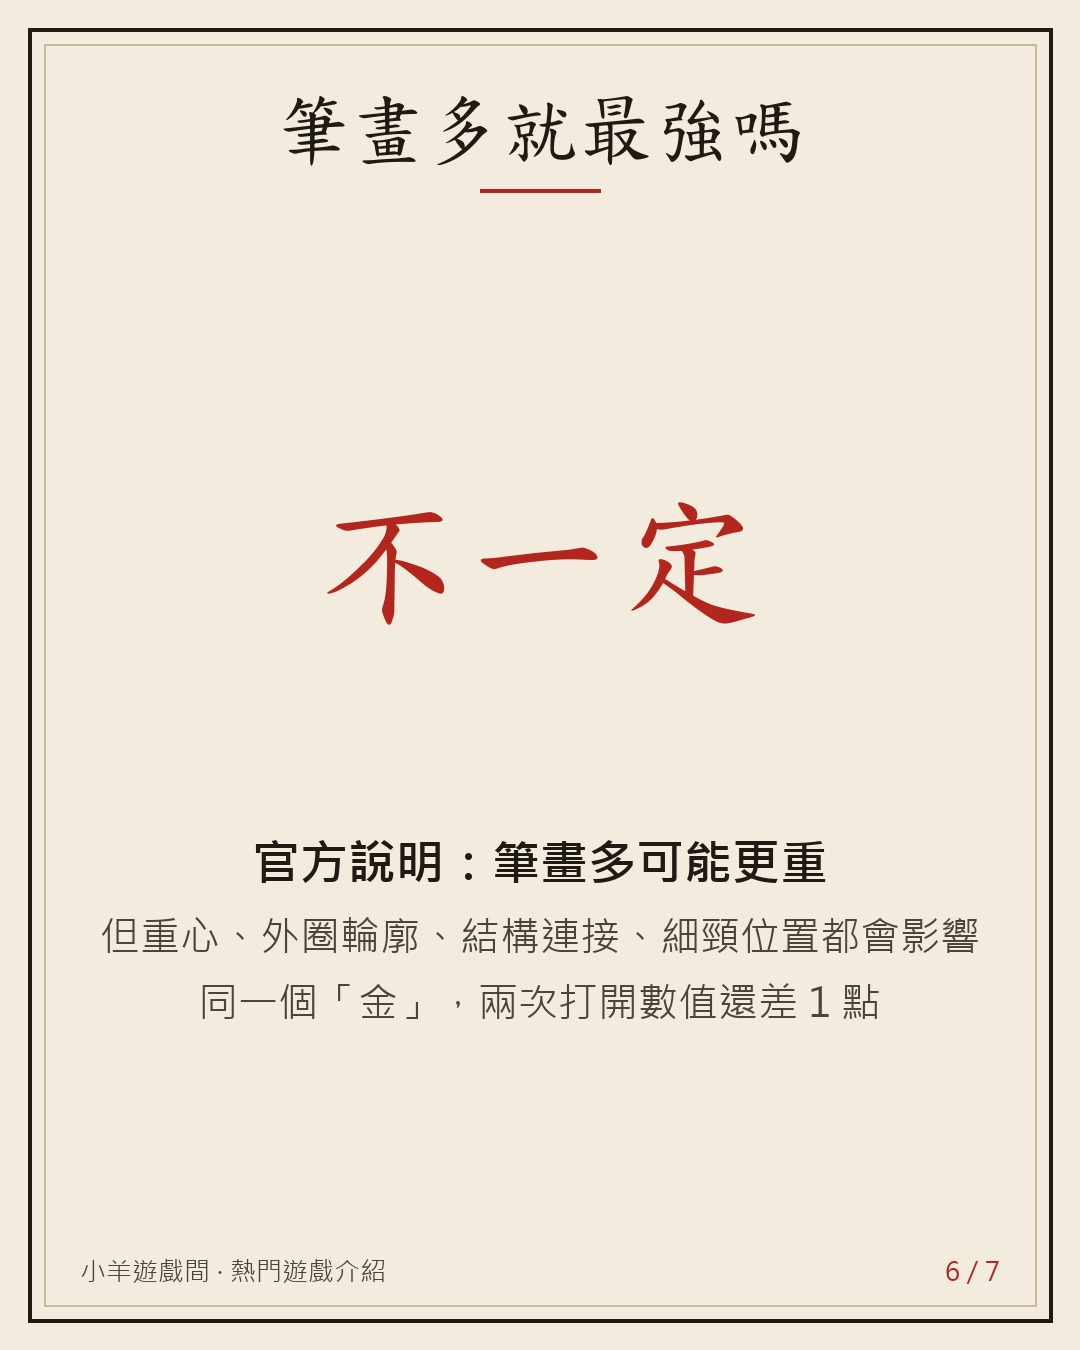
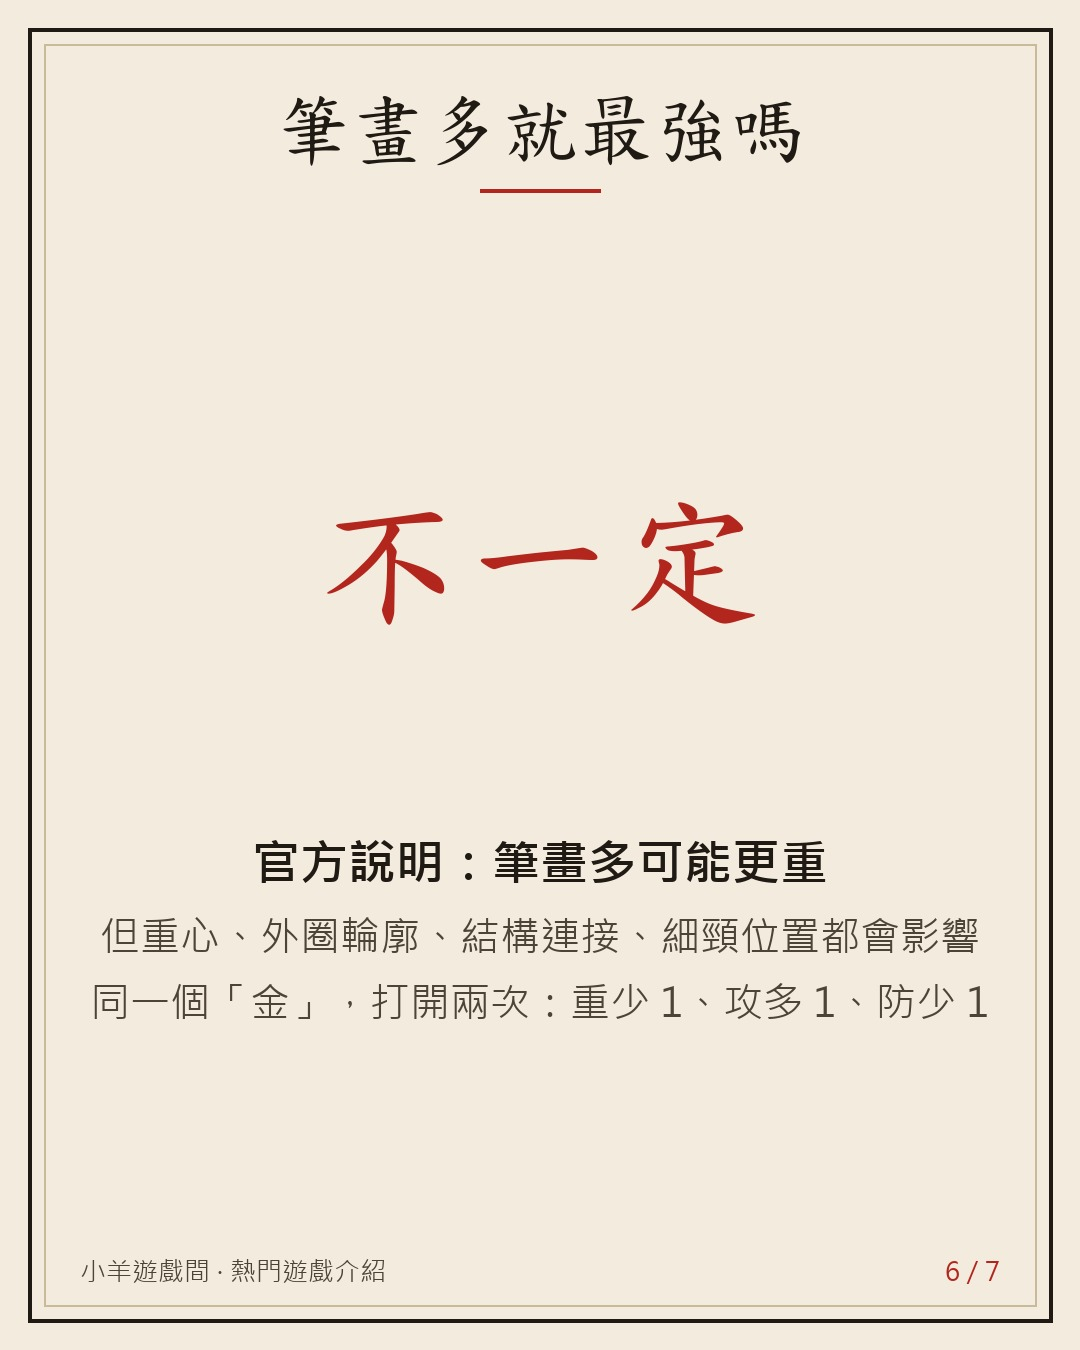
vault backup: 2026-11-24 09:39:36

Changed region(s): [[0.3361, 0.7156, 0.8861, 0.7778], [0.1528, 0.7156, 0.3056, 0.7778], [0.0917, 0.7156, 0.1222, 0.7467]]

diff --git a/Projects/auto promotion/posts/89.md b/Projects/auto promotion/posts/89.md
@@ -5,49 +5,50 @@ game: 姓名戰鬥陀螺（lpm1.live；《文字遊戲》製作人張文韋用 C
 topic: "姓名戰鬥陀螺：輸入三字姓名、每字化為陀螺、三回合先得兩勝；薪鹽 Threads 貼文一天破 19 萬瀏覽，作者是《文字遊戲》製作人張文韋（NOWnews 2026-09-30、4Gamers）；實測只看到陀螺數值，沒等到對戰結果"
 status: 待發
 created: 2026-11-25 00:10
-score: 8.1
+score: 8.2
 ---
 # 【介紹】網頁遊戲《姓名戰鬥陀螺》：把名字變成陀螺開打，三字三戰先得兩勝
 
 ## Threads
 ### 1
 一日十九萬次看，
-名字入場化陀螺。
+三字化螺各上場。
 
 【介紹】《姓名戰鬥陀螺》
 話說江湖上有一門奇功：輸入三個字的名字，每個字化為一顆陀螺，三回合各派一字，先得兩勝者為最強姓名。
-漫畫家薪鹽在 Threads 說男友用 AI 做的，一天瀏覽破 19 萬次；後來揭曉那位男友是《文字遊戲》製作人張文韋。
+據 NOWnews，漫畫家薪鹽在 Threads 說男友用 AI 做的，一天瀏覽破 19 萬次；後來揭曉那位男友，是《文字遊戲》製作人張文韋。
 圖片來源：姓名戰鬥陀螺 官方網站
 ![[89/01.jpg]]
 ### 2
 且說在下親自查看陀螺底細：
 每個字都有重、穩、攻、防四項數值。
-「金」第一次打開是重 44、穩 95、攻 63、防 50，第二次變重 43、攻 64、防 49（穩仍 95），同一個字數值會微調，江湖笑之。
-「天」攻 80、防 35，攻最高、防最低，擅攻不擅守，深藏不露。
+「金」第一次打開是重 44、穩 95、攻 63、防 50；第二次重少 1、攻多 1、防少 1。同一個字打開兩次不一樣，不知算進步還是退步 XD
+「天」（第一次打開）攻 80、防 35，在畫面上六個字裡攻最高、防最低，擅攻不擅守。
 官方說明：筆畫多可能更重，但重心、外圈輪廓、細頸位置都會影響，字多不等於贏。
-在下按下開戰，陀螺轉了好一陣子，沒等到勝負，今日不敢報戰果，請閣下親自去打完 XD
+在下按下開戰，等了一分多鐘，戰局還停在第 1 回合（「金」對「藍」），勝負不敢報。閣下的名字能撐到第幾回？
 圖片來源：姓名戰鬥陀螺 官方網站
 ![[89/02.jpg]]
 ### 3
 此功手機點開即可練，免費、不用登入。
 小羊的筆記：做小遊戲可以學這招，輸入用玩家本來就有的東西（名字），零教學就會玩，結果還能截圖給朋友看。
-考考閣下：你名字三個字，哪個最強？留言告訴在下。追蹤小羊，有新的點了就玩的小遊戲再來介紹。
+考考閣下：你名字三個字，哪個最強？留言告訴在下。追蹤小羊，每回挑一款點了就玩的網頁遊戲來講。
 ![[89/07.jpg]]
 ### 連結
 《姓名戰鬥陀螺》https://lpm1.live/ （網頁點開即可玩）。想再找一門點了就玩的奇功，都在小羊遊戲間 👉 https://games.csiesheep.com/
 
 ## Instagram
-一日十九萬次看，名字入場化陀螺。
+一日十九萬次看，三字化螺各上場。
 
 【介紹】《姓名戰鬥陀螺》
 話說江湖上有一門奇功：輸入三個字的名字，每個字化為一顆陀螺，三回合各派一字，先得兩勝者為最強姓名。
 
-漫畫家薪鹽在 Threads 說男友用 AI 做的，一天瀏覽破 19 萬次，後來揭曉作者是《文字遊戲》製作人張文韋（NOWnews，9/30）。每個字有重、穩、攻、防四項數值，官方說明筆畫多不一定強，重心、輪廓、細頸位置都有影響。
+據 NOWnews，漫畫家薪鹽在 Threads 說男友用 AI 做的，一天瀏覽破 19 萬次，後來揭曉作者是《文字遊戲》製作人張文韋（NOWnews 9/30 報導）。每個字有重、穩、攻、防四項數值，官方說明筆畫多不一定強，重心、輪廓、細頸位置都有影響。
 
-在下實測：同一個「金」，打開兩次數值差一點點（重 44→43、攻 63→64）；「天」攻 80、防 35。按下開戰後陀螺轉了好一陣子，沒等到勝負，戰果請閣下親自去打。
+在下實測：同一個「金」，打開兩次，重少 1、攻多 1、防少 1；「天」（第一次打開）攻 80、防 35。按下開戰後等了一分多鐘，戰局還停在第 1 回合，勝負不敢報，請閣下親自去打。
 
 網頁免費、不用登入。考考閣下：你名字三個字，哪個最強？留言告訴在下。
 小羊的筆記：做小遊戲可以學這招，輸入用玩家本來就有的東西（名字），零教學就會玩。
+追蹤小羊，每回挑一款點了就玩的網頁遊戲來講。
 
 圖：姓名戰鬥陀螺 官方網站畫面
 
@@ -58,19 +59,18 @@ score: 8.1
 
 ## Facebook
 一日十九萬次看，
-名字入場化陀螺。
+三字化螺各上場。
 
 【介紹】《姓名戰鬥陀螺》
 話說江湖上有一門奇功：輸入三個字的名字，每個字化為一顆陀螺，三回合各派一字，先得兩勝者為最強姓名；也可以一字對一字單挑。
 
-📜 緣起：漫畫家薪鹽在 Threads 說男友用 AI 做了「用名字打架的戰鬥陀螺」，一天瀏覽破 19 萬次。後來揭曉那位男友是台灣獨立團隊 Team9 總製作人張文韋，也是《文字遊戲》的製作人；《文字遊戲》獲日本遊戲大賞 2026 遊戲設計師大獎（NOWnews，9/30）。
+📜 緣起：據 NOWnews，漫畫家薪鹽在 Threads 說男友用 AI 做了「用名字打架的戰鬥陀螺」，一天瀏覽破 19 萬次。後來揭曉那位男友是台灣獨立團隊 Team9 總製作人張文韋，也是《文字遊戲》的製作人；《文字遊戲》獲日本遊戲大賞 2026 遊戲設計師大獎（NOWnews，9/30）。
 🛠 工具：據 NOWnews，原始公開版本是用 Claude 做的，免費、不用登入。
 🌀 玩法：每個字依字形切成節點，碰撞時會偏重、旋轉、斷裂，每個字有重、穩、攻、防四項數值。官方說明：筆畫多可能更重，但重心、外圈輪廓、結構連接、細頸位置都會影響表現。
-🔎 在下實測：同一個「金」，打開兩次，數值差一點點（重 44→43、攻 63→64）；「天」攻 80、防 35，攻擊高、防守低。
+🔎 在下實測：同一個「金」，打開兩次，重少 1、攻多 1、防少 1；「天」（第一次打開）攻 80、防 35，攻擊高、防守低。按下開戰後等了一分多鐘，戰局還停在第 1 回合（「金」對「藍」），勝負不敢報，請閣下親自去打。
 
 網頁免費、不用登入、不用下載。考考閣下：你名字三個字，哪個最強？留言告訴在下。
-小羊的筆記：做小遊戲可以學這招，輸入用玩家本來就有的東西（名字），零教學就會玩，結果還能截圖給朋友看。
-在下按下開戰，陀螺轉了好一陣子，沒等到勝負，戰果請閣下親自去打。
+小羊的筆記：做小遊戲可以學這招，輸入用玩家本來就有的東西（名字），零教學就會玩，結果還能截圖給朋友看。追蹤小羊，每回挑一款點了就玩的網頁遊戲來講。
 《姓名戰鬥陀螺》https://lpm1.live/
 更多點了就玩的網頁小遊戲，都在小羊遊戲間 👉 https://games.csiesheep.com/
 圖片來源：姓名戰鬥陀螺 官方網站
@@ -79,9 +79,18 @@ score: 8.1
 ## Sources
 - https://www.nownews.com/news/6879106 — 薪鹽貼文一天破 19 萬瀏覽、作者張文韋（Team9 總製作人、《文字遊戲》製作人）、用 Claude、免費免登入、兩種模式、《文字遊戲》獲日本遊戲大賞 2026 遊戲設計師大獎（2026-09-30）
 - https://www.4gamers.com.tw/news/detail/80099/word-game-name-battle-spinning-top-funny-beyblade — 標題：Threads 熱議、《文字遊戲》開發者以 AI 打造（內文只取到標題）
-- https://www.threads.com/@shinyan_dungeon/post/DZo2HOkiREk — 薪鹽原貼文標題「男友用AI做了一個用名字打架的戰鬥陀螺遊戲」（搜尋摘要，未開啟）
+- https://www.threads.com/@shinyan_dungeon/post/DZo2HOkiREk — 薪鹽原貼文標題「男友用AI做了一個用名字打架的戰鬥陀螺遊戲」（搜尋摘要，未開啟；文中一律標「據 NOWnews」）
+- 卡片 2 的「神」「杖」與「金」同在官方畫面第二次開啟的截圖，數值取自該截圖
 - https://lpm1.live/ — 玩法、四項數值、官方說明（筆畫多不一定強）、og-cover.png 與畫面截圖（官方網站，2026-11-25 截圖）。網站本身沒有作者署名，作者以 NOWnews 為準
-- 實測：2026-11-25 開啟網站兩次，讀到「金」數值兩組（44/95/63/50 與 43/95/64/49），「天」攻 80 防 35（第一次開啟）；按下開戰後對戰跑得很慢，沒有等到結果，所以文中不寫勝負
+- 第一次開啟畫面六字數值：金 重44穩95攻63防50、神 重48穩86攻62防50、杖 重47穩95攻51防61、藍 重57穩93攻50防61、天 重34穩73攻80防35、馬 重45穩78攻68防46（網站頁面文字）；NOWnews 稱 Team9 為「台灣獨立團隊」
+- 實測：2026-11-25 開啟網站兩次，讀到「金」數值兩組（44/95/63/50 與 43/95/64/49），「天」攻 80 防 35（第一次開啟）；按下開戰後對戰在這邊的瀏覽器跑得很慢（等了一分多鐘仍在第 1/3 回），沒有等到結果，所以文中不寫勝負
 
 ## 打磨紀錄
 | 回合 | 1 | 2 | 3 | 4 | 5 | 6 | 7 | 8 | 9 | 10 | 平均 | 主要修改 |
+| 4（獨立評審）| 8 | 9 | 7 | 8 | 8 | 9 | 7 | 8 | 8 | 10 | 8.2 | 對聯改「一日十九萬次看，三字化螺各上場」、補六字數值來源、誠實寫「等了一分多鐘仍在第 1 回合」、IG/FB 加追蹤理由 |
+| 3（獨立評審）| 8 | 9 | 6 | 7 | 8 | 8 | 8 | 8 | 8 | 9 | 7.9 | 改「據 NOWnews」、數值標第幾次打開 |
+| 2（獨立評審）| 8 | 9 | 6 | 7 | 7 | 8 | 7 | 7 | 7 | 9 | 7.5 | 補「沒等到結果」說明 |
+| 1（獨立評審）| 8 | 9 | 6 | 6 | 8 | 8 | 7 | 8 | 7 | 10 | 7.7 | 初稿 |
+
+## 發文紀錄
+(filled by the posting task)

diff --git a/Projects/auto promotion/posts/topics.md b/Projects/auto promotion/posts/topics.md
@@ -71,3 +71,4 @@
 - 2026-11-24 producer：已寫 #88《Dialed》（BetaKit 6/18）。清單已無「待寫」。再查 DailyView、udn、中時的 Threads 爆紅合集，題目幾乎都已寫過（只剩《堆疊雪糕球 SCOOP!》https://scoop-tower-game.vercel.app 與《唧牙膏》，兩者找不到媒體報導與作者，來源不足未寫）。下次要找新近（11 月下旬）的網頁遊戲，或看 aileelife.com/threads-game/ 30 款整理（機器抓不到內文，要用瀏覽器開）。
 - 2026-11-24 21:50 producer：再查一輪仍無新題。候補：《COO》（Yegor Sak 一人 7 天做的多倫多間諜鴿子網頁遊戲，tech.yahoo.com 11/11 報導；台灣玩家熱度未證實，來源要再補）；《老師，今天能平安下班嗎？》搜不到作者與來源。下次可直接開 4388.fun 排行榜看新上榜遊戲。
 - 2026-11-24 23:59 producer：再查（Threads/4388/英文 viral AI game）仍無新的、來源足夠的題目；PokéBonk（36Kr 11/9，寶可夢同人，圖片 IP 有疑慮）未選。熱門庫存 3，等有新題再補。
+- 2026-11-25 producer：已寫 #89《姓名戰鬥陀螺》（lpm1.live；NOWnews 2026-09-30、4Gamers；《文字遊戲》製作人張文韋用 Claude 做，薪鹽 Threads 貼文一天破 19 萬瀏覽）。實測對戰在瀏覽器跑太慢，沒有勝負結果，文中已誠實寫明。

diff --git a/Projects/auto promotion/2026-11-25.md b/Projects/auto promotion/2026-11-25.md
@@ -22,3 +22,4 @@
 | 01:22 | social-stats-daily | 進度 | 頁面已更新：資料到 2026-11-24 |  |
 | 01:29 | promo-producer | 開始 | 卡2 生在中國3 鬼唱詩 要修改1／待審1／寫作中1；修第58首 altar_apple 審稿意見 |  |
 | 01:30 | promo-producer | 進度 | 鬼唱詩 altar_apple 等 owner 回覆（留言已問，無新回覆）；鬼唱詩 #33 寫作中不重複；熱門貼文 3<4，派人寫《姓名戰鬥陀螺》 |  |
+| 01:37 | promo-producer | 完成 | 熱門貼文 #89《姓名戰鬥陀螺》待發（posts/89.md，評審 8.2）；現 熱門4／日記4，卡2，Reel3，鬼唱詩 要修改1／待審1／寫作中1 |  |
